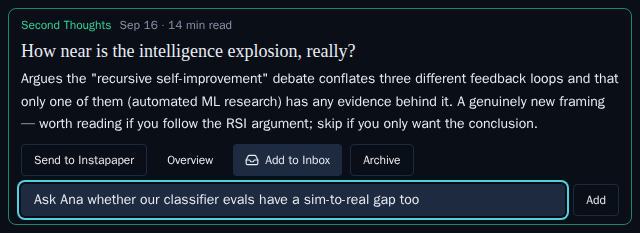
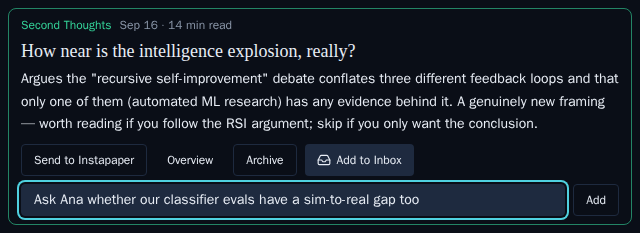
docs(demos): reshoot the reader inbox capture demo

Changed region(s): [[0.3438, 0.6009, 0.6562, 0.7511]]

diff --git a/docs/demos/reader-inbox-capture/reader-inbox-capture.md b/docs/demos/reader-inbox-capture/reader-inbox-capture.md
@@ -8,7 +8,7 @@ branch: claude/loving-knuth-xyzfym
 
 Every reader row now has an **Add to Inbox** verb (key `a` on the selected row) that toggles a one-line field under the verb line. Whatever is typed lands in the Inbox as an unclassified capture: its title is the trimmed text, its `source_url` the row's Original (or Session) link, and its notes name the post. The post stays on the list. Captured live through the Playwright mock backend.
 
-**1. Select the post and press `a`.** The field opens under the verbs, focused; the verb takes its pressed wash and shows its `a` keycap.
+**1. Select the post and press `a`.** The field opens under the verbs, focused; the verb takes its pressed wash and shows its `a` keycap. It sits after Archive and before Original.
 
 ![](reader-inbox-capture-image-1.png)
 
@@ -20,17 +20,15 @@ Every reader row now has an **Add to Inbox** verb (key `a` on the selected row) 
 
 ![](reader-inbox-capture-image-3.png)
 
-**At phone width (375 px)** the verb line wraps the way it already did, and the input and Add button share one line, with the input shrinking.
+**At phone width (375 px)** Send, Overview and Archive keep their one line, and Add to Inbox is the verb that wraps to a second line. The input and the Add button share one line, with the input shrinking.
 
 ![](reader-inbox-capture-image-4.png)
 
-**Storybook baselines.** Two new snapshot stories, `InboxCaptureOpen` and `InboxCaptureAdded`, pin the open and just-added states. The new verb moved every existing `PostRow` baseline, and the reading-list and archive baselines that draw rows; all were regenerated through the snapshot gate. Three moved by more than the 1% gate threshold. Their diffs (baseline | changed pixels | new) follow; the rest moved by less and were removed and rewritten so they wouldn't stay stale.
+**Storybook baselines.** Two new snapshot stories, `InboxCaptureOpen` and `InboxCaptureAdded`, pin the open and just-added states. The new verb also changes every existing `PostRow` baseline, plus the reading-list and archive baselines that draw rows. Because it's appended at the end of the verb line, each one moves by less than the gate's 1% threshold, so the gate writes no diff images. Those baselines were deleted and rewritten through the snapshot gate so they wouldn't stay stale. Before (`main`) and after for the failed row:
 
 ![](reader-inbox-capture-image-5.png)
 
 ![](reader-inbox-capture-image-6.png)
-
-![](reader-inbox-capture-image-7.png)
 
 The two new baselines, open and just added:
 
